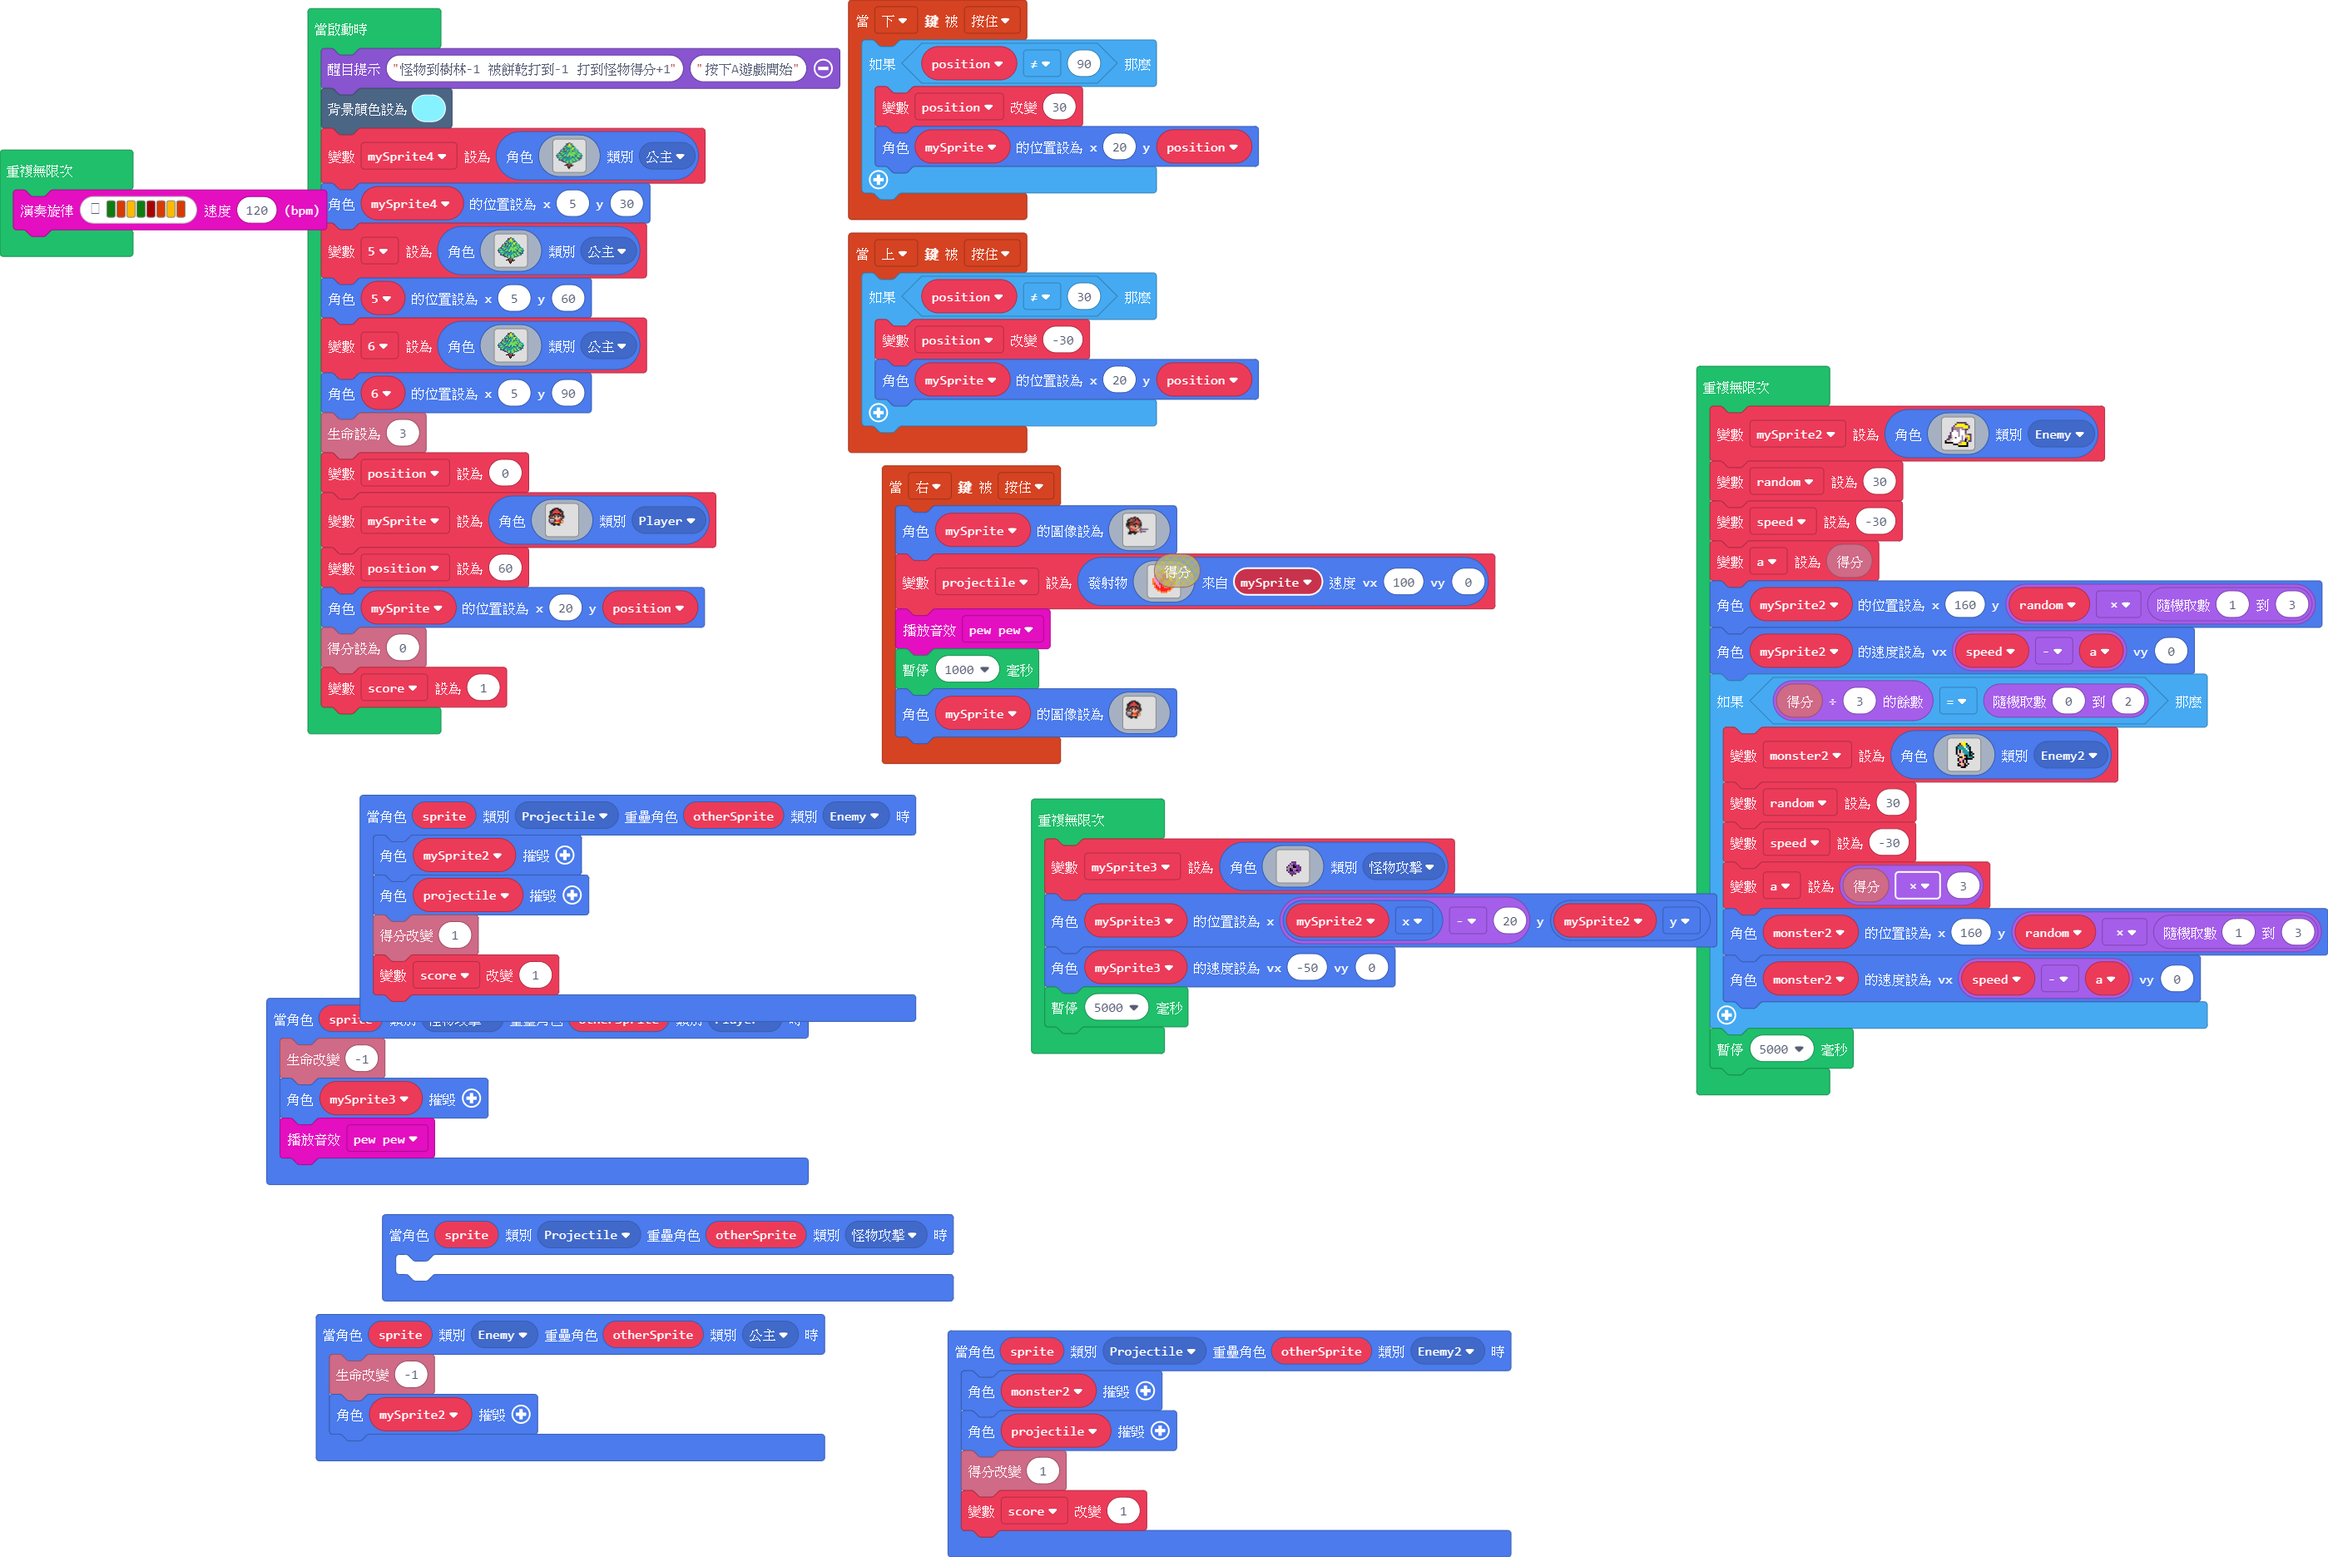
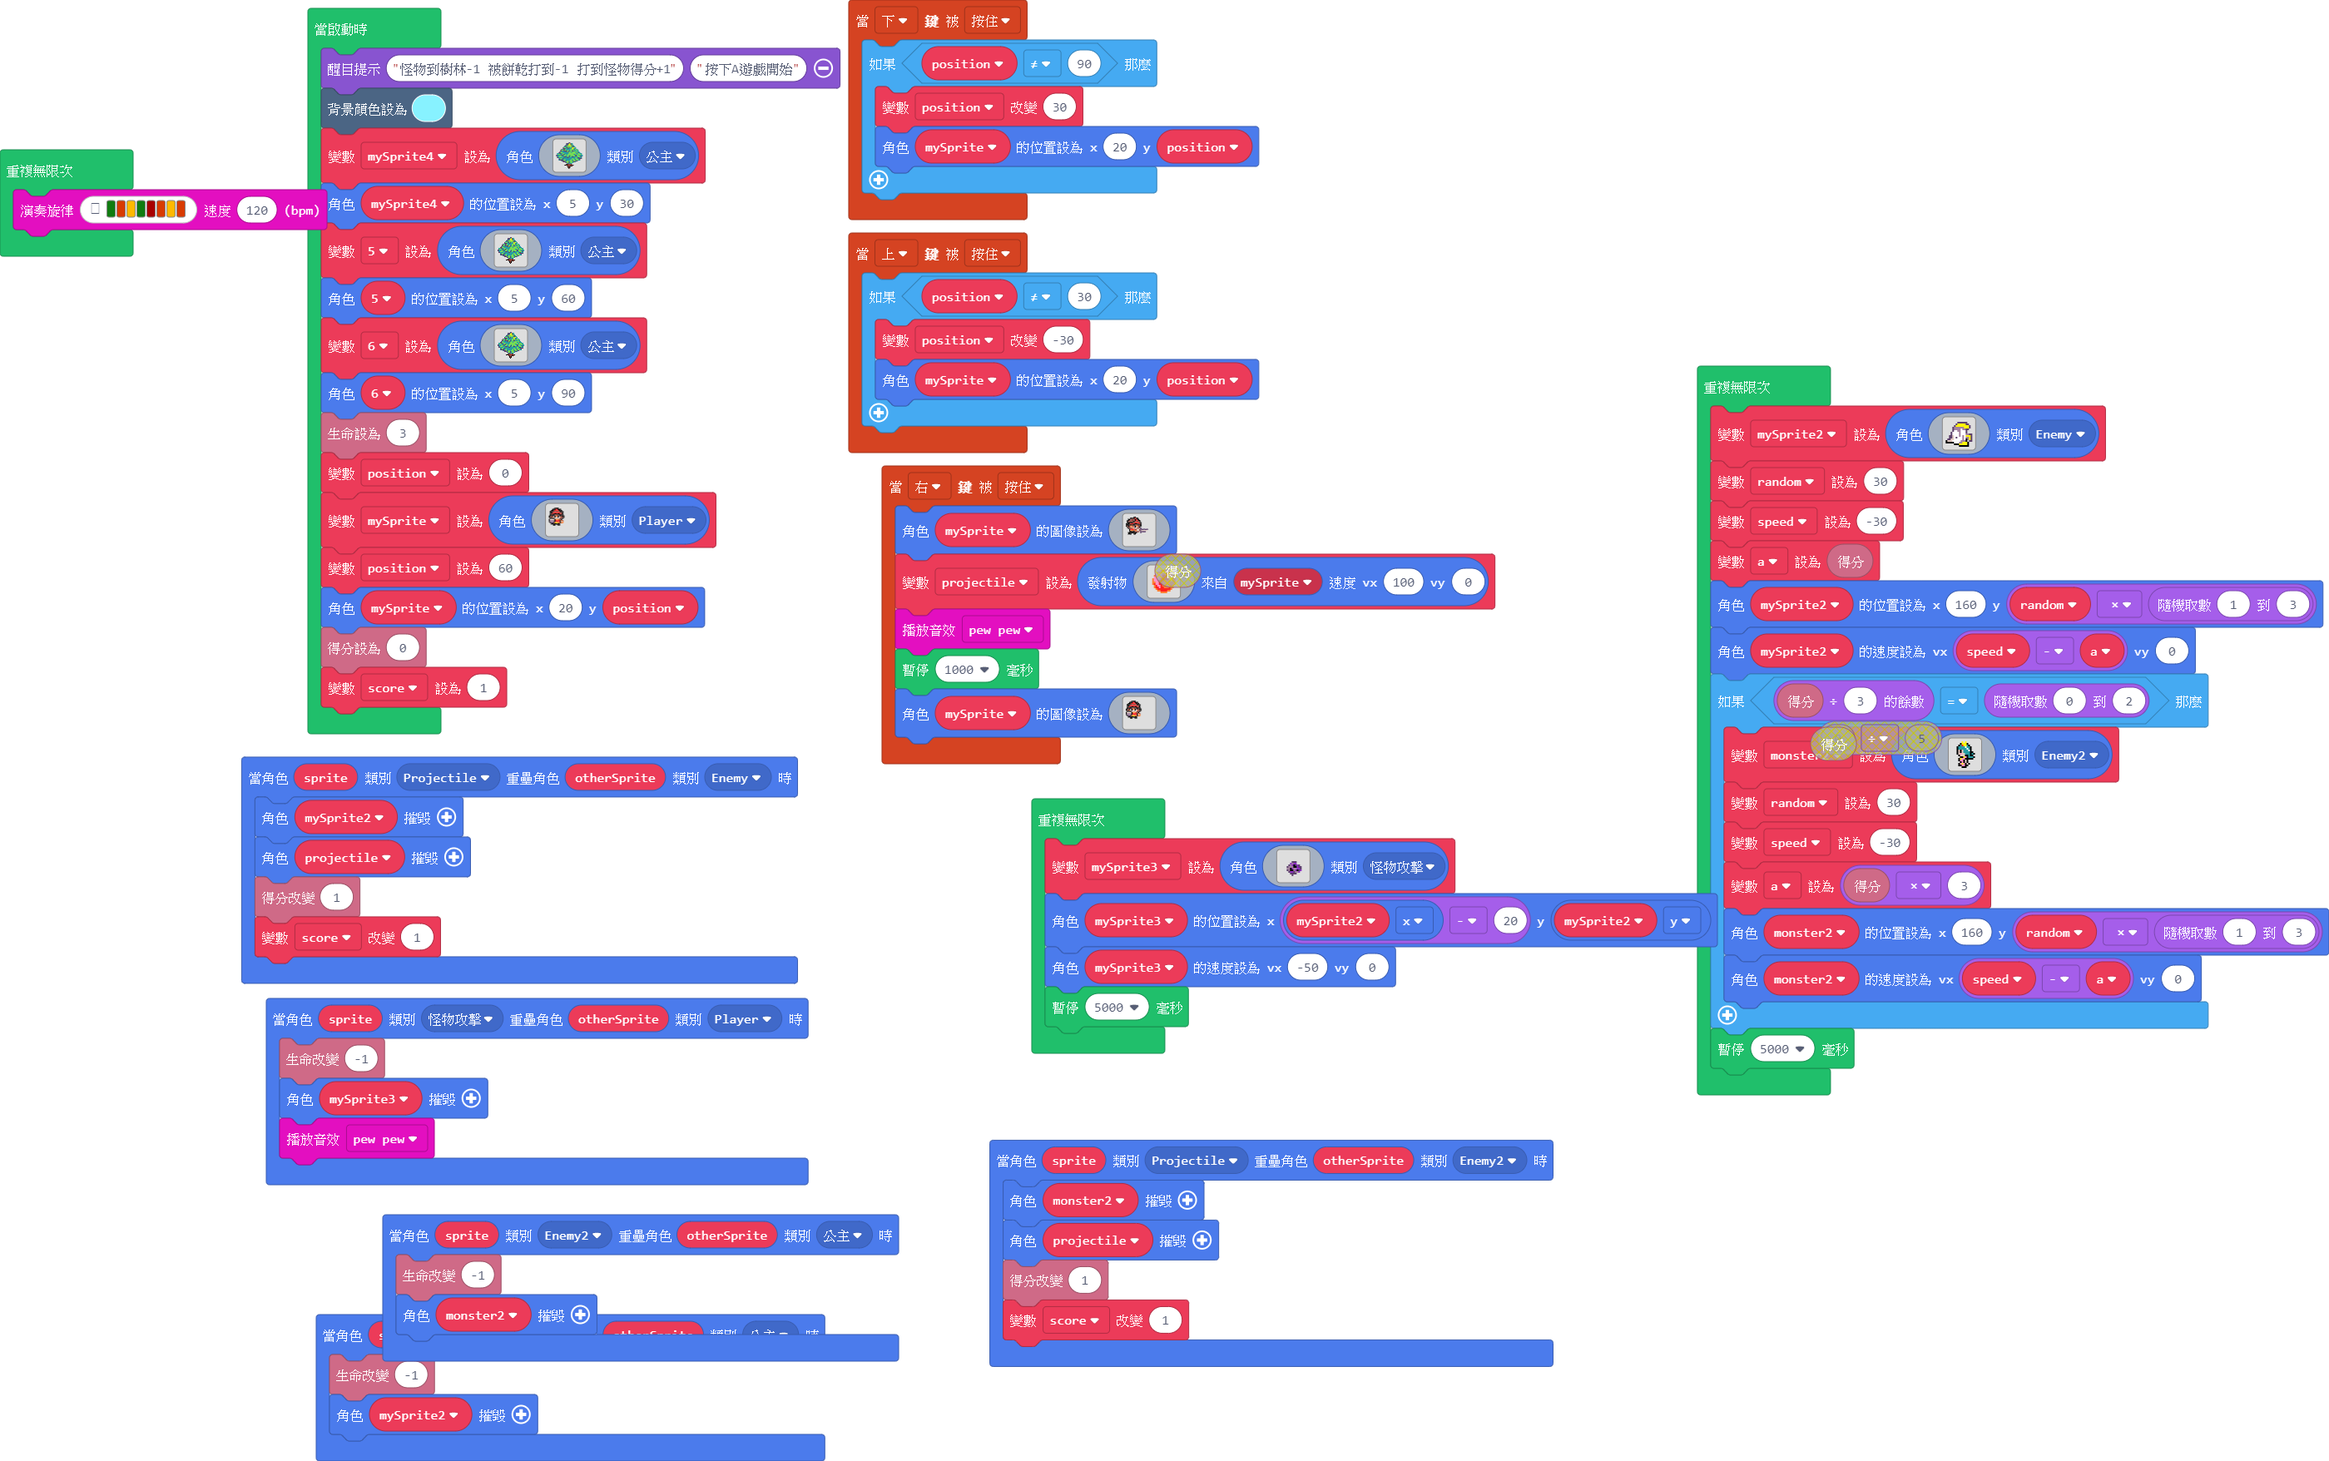
Update main.blocks, main.ts

diff --git a/main.ts b/main.ts
@@ -4,6 +4,10 @@ namespace SpriteKind {
     export const 公主 = SpriteKind.create()
     export const Enemy2 = SpriteKind.create()
 }
+sprites.onOverlap(SpriteKind.Enemy2, SpriteKind.公主, function (sprite, otherSprite) {
+    info.changeLifeBy(-1)
+    monster2.destroy()
+})
 controller.down.onEvent(ControllerButtonEvent.Pressed, function () {
     if (position != 90) {
         position += 30
@@ -14,9 +18,6 @@ sprites.onOverlap(SpriteKind.怪物攻擊, SpriteKind.Player, function (sprite, 
     info.changeLifeBy(-1)
     mySprite3.destroy()
     music.pewPew.play()
-})
-sprites.onOverlap(SpriteKind.Projectile, SpriteKind.怪物攻擊, function (sprite, otherSprite) {
-	
 })
 sprites.onOverlap(SpriteKind.Projectile, SpriteKind.Enemy, function (sprite, otherSprite) {
     mySprite2.destroy()
@@ -117,10 +118,10 @@ sprites.onOverlap(SpriteKind.Projectile, SpriteKind.Enemy2, function (sprite, ot
 let a = 0
 let speed = 0
 let random = 0
-let monster2: Sprite = null
 let projectile: Sprite = null
 let mySprite2: Sprite = null
 let mySprite3: Sprite = null
+let monster2: Sprite = null
 let mySprite: Sprite = null
 let position = 0
 game.splash("怪物到樹林-1 被餅乾打到-1 打到怪物得分+1", "按下A遊戲開始")
